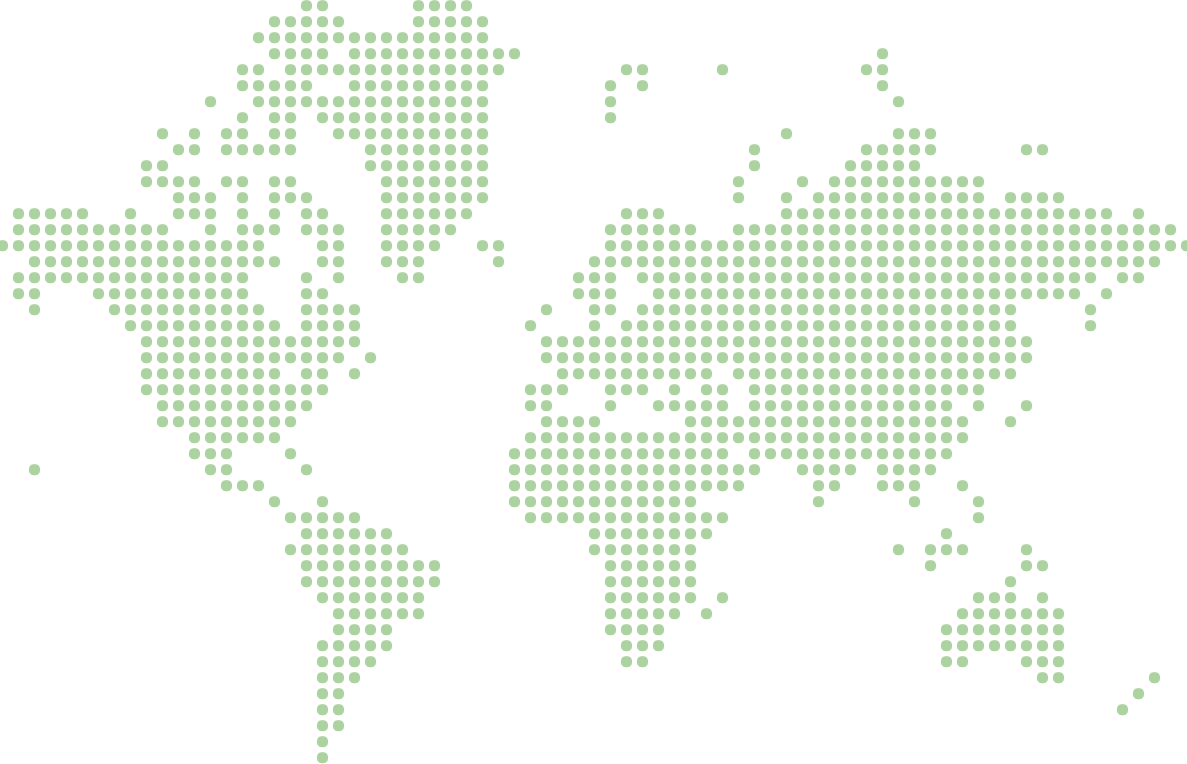
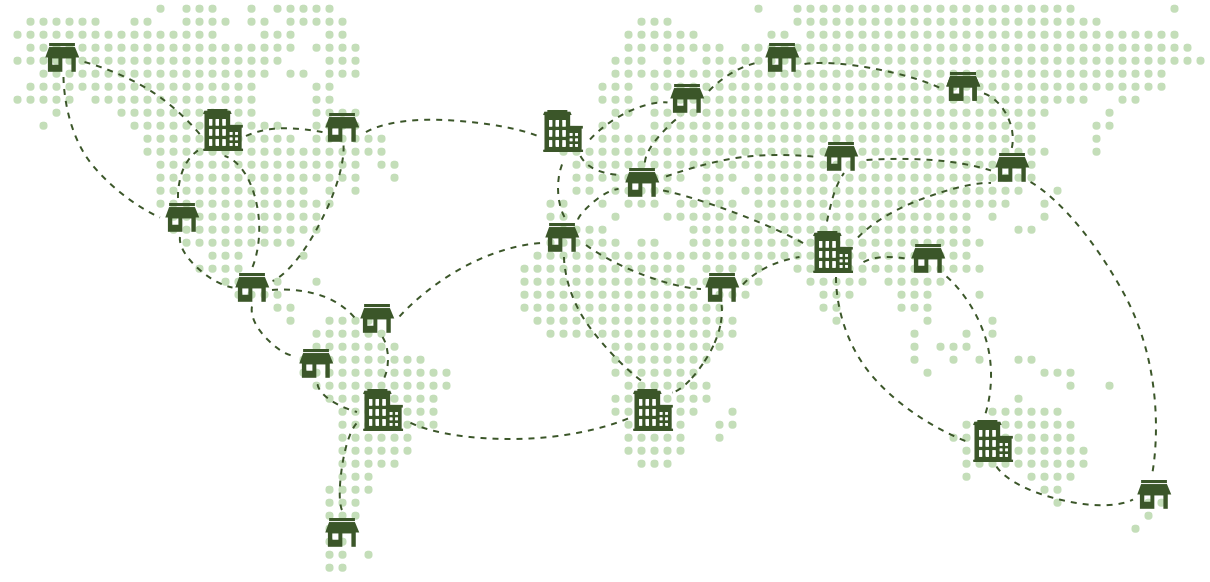
Changes in data

Changed region(s): [[0.0, 0.0, 1.0, 1.0], [0.9351, 0.8041, 0.9975, 0.9278], [0.4052, 0.3093, 0.4364, 0.3402]]

diff --git a/v2/index.html b/v2/index.html
@@ -48,7 +48,7 @@
           </div>
         </div>
         <div class="hc-branding">
-          <span class="hc-number-dist">10,000,000 <a href="#">StoreCoins Issued<span class="away"></span></a></span>
+          <span class="hc-number-dist">10,000,000 <a href="#">issued and authorized<span class="away"></span></a></span>
         </div>
         <nav class="hc-navigation">
           <div class="hc-menu-container">
@@ -82,47 +82,60 @@
   <div id="hc-content">
     <div class="hc-feature over-rel padding" id="hc-intro">
       <div class="hc-chunk hc-intro-text-wrapper">
-        <h2 class="hc-intro-large-lead">StoreCoin is a platform that connects banks, payments systems, and people.</h2>
-        <p class="hc-intro-small-lead">Integrate to move money quickly, reliably, and at almost no cost.</p>
-        <p><a href="#" class="button button-primary large-button">See who uses StoreCoin</a></p>
+        <h2 class="hc-intro-large-lead">StoreCoin is a blockchain platform that <b>will</b> connect chain stores, franchises, customers, and more</h2>
+        <p class="hc-intro-small-lead">OUR MISSION: On top of the StoreCoin blockchain, there could be a StarbucksCoin, a SafewayCoin, a WalmartCoin -- and their cash registers will be powered by StoreCoins</p>
+        <p class="hc-intro-small-lead">StoreCoin will power e-commerce, Point of Sales systems, staff rewards, supply chains, and even payroll for the world’s largest franchises and chains</p>
+        <img src="images/map.png" style="width:90%;" />
       </div>
     </div>
 
     <div class="hc-feature over-rel padding" id="hc-future">
       <div class="hc-chunk hc-future-text-wrapper">
-        <h3 class="hc-feature-title" style="margin-bottom:2em;">The future of banking is here</h3>
+        <h3 class="hc-feature-title" style="margin-bottom:2em;">THE BLOCKCHAIN WILL POWER TECHNOLOGY IN CHAIN STORES AND FRANCHISES</h3>
         <div class="hc-future-tabs container">
           <div class="tab-content-group row">
 
             <div class="tab-content is-active three columns">
               <span class="graphic graphic-into-cash"></span>
-              <p class="content-title">Remittances</p>
+              <p class="content-title">Store Coins</p>
+              <!--
               <p class="content-body">Send money across borders quickly, for a fraction of a cent. Facilitate low-cost payments between different currencies.</p>
-            </div>
-
-            <div class="tab-content three columns">
-              <span class="graphic graphic-hand-catching-orbs"></span>
-              <p class="content-title">Micropayments</p>
-              <p class="content-body">Increase efficiency and decrease the cost of smaller transfers. Offer incremental payment options to your customers.</p>
-            </div>
-
-            <div class="tab-content three columns">
-              <span class="graphic graphic-truck"></span>
-              <p class="content-title">Mobile Branches</p>
-              <p class="content-body">Get an agency banking advantage with mobile branches. Expand your retail operation, without the overhead costs.</p>
+            -->
             </div>
 
             <div class="tab-content three columns">
               <span class="graphic graphic-credit-card-with-phone"></span>
-              <p class="content-title">Mobile Money</p>
+              <p class="content-title">sApps</p>
+              <!--
               <p class="content-body">Make mobile money platforms interoperable. Let your customers send MM to recipients with different providers.</p>
+            -->
             </div>
+
+            <div class="tab-content three columns">
+              <span class="graphic graphic-hand-catching-orbs"></span>
+              <p class="content-title">Store Tokens</p>
+              <!--
+              <p class="content-body">Increase efficiency and decrease the cost of smaller transfers. Offer incremental payment options to your customers.</p>
+            -->
+            </div>
+
+
+            <div class="tab-content three columns">
+              <span class="graphic graphic-truck"></span>
+              <p class="content-title">Supply Chain</p>
+              <!--
+              <p class="content-body">Get an agency banking advantage with mobile branches. Expand your retail operation, without the overhead costs.</p>
+            -->
+            </div>
+
 
           </div>
         </div>
+        <!--
         <p class="hc-button-container">
           <a href="#" class="button button-primary large-button">Find your use case</a>
         </p>
+      -->
       </div>
     </div>
 
@@ -139,12 +152,15 @@
             <p>Get started on the network quickly with <br> developer-friendly software and tools.</p>
           </div>
         </div>
+        <!--
         <p class="hc-button-container">
           <a href="#" class="button button-primary large-button">Build with StoreCoin</a>
         </p>
+      -->
       </div>
     </div>
 
+    <!--
     <div class="hc-feature over-rel padding" id="hc-mission">
       <div class="hc-chunk hc-mission-tex-wrapper">
           <h3 class="hc-feature-title" style="margin-bottom:1.5em;">Finance with a mission</h3>
@@ -186,52 +202,50 @@
       </div>
     </div>
   </div>
+  -->
+
   <footer id="hc-footer">
     <div class="hc-footer-chunk" style="padding-bottom: 1em; border-top: 1px dashed #96ad8a;">
         <section class="footer-light row">
           <div class="three columns">
             <h3>Software</h3>
             <ul>
-              <li><a href="#">StoreCoin Core</a></li>
+              <li><a href="#">StoreCoin Blockchain</a></li>
               <li><a href="#">StoreCoin API</a></li>
-              <li><a href="#">Documentation</a></li>
               <li><a href="#">Our White Paper</a></li>
             </ul>
           </div>
           <div class="three columns">
             <h3>News</h3>
             <ul>
-              <li><a href="#">Latest Updates</a></li>
               <li><a href="#">Subscribe to Updates</a></li>
               <li><a href="#">FAQ</a></li>
               <li><a href="#">Bug Bounty Program</a></li>
-              <li><a href="#">Help articles</a></li>
               <li><a href="#">Twitter</a></li>
             </ul>
           </div>
           <div class="three columns">
             <h3>About StoreCoin</h3>
             <ul>
-              <li><a href="#">Mandate</a></li>
-              <li><a href="#">Team</a></li>
+              <li><a href="#">Why StoreCoin?</a></li>
+              <li><a href="#">How It Works</a></li>
+              <li><a href="#">Our Team</a></li>
               <li><a href="#">Jobs</a></li>
               <li><a href="#">Press</a></li>
-              <li><a href="#">Contact <img src="images/logo-text.png" style="width: 34px; vertical-align: sub;"></a></li>
+              <li><a href="#">Contact Us</li>
             </ul>
           </div>
           <div class="three columns">
             <img src="images/logo.png" style="width:100px; height: auto;" />
             <div></div>
-            <a href="" class="">StoreCoin</a> is a nonprofit organization.</p>
-            <p style="color:#666;">© 2014-2017 StoreCoin Foundation</p>
+            <a href="" class="">StoreCoin</a> is a for-profit organization where 10% of the network is invested back into the StoreCoin protocol</p>
+            <p style="color:#666; margin-top:0.5em;">© 2017 StoreCoin, Inc</p>
             <section class="footer-bridge">
               <div class="footer-bridge-contentStart">
                 <a href="#" class="footer-social-icon"><span class="graphic-socialHover-facebook"></span></a>
                 <a href="#" class="footer-social-icon"><span class="graphic-socialHover-twitter"></span></a>
                 <a href="#" class="footer-social-icon"><span class="graphic-socialHover-linkedin"></span></a>
                 <a href="#" class="footer-social-icon"><span class="graphic-socialHover-github"></span></a>
-                <a href="#" class="footer-social-icon"><span class="graphic-socialHover-reddit"></span></a>
-                <a href="#" class="footer-social-icon"><span class="graphic-socialHover-slack"></span></a>
               </div>
               <div class="footer-bridge-contentEnd">
               </div>

diff --git a/v2/css/styles.css b/v2/css/styles.css
@@ -183,31 +183,30 @@ h1, h2, h2, h3, h4, h5, h6 {
 /* #hc-intro  */
 #hc-intro {
   background: linear-gradient(0deg, rgb(197, 224, 181), rgba(197, 224, 181, 0.68) 75%);
-  height: 612px;
 }
 
 #hc-intro .hc-intro-text-wrapper {
   position: relative;
   z-index: 2;
   overflow: hidden;
-  max-width: 62em;
   padding-top: 10em;
-  padding-bottom: 10em;
+  padding-bottom: 1em;
   text-align: center;
   color: #08b5e5;
 }
 
 #hc-intro .hc-intro-text-wrapper .hc-intro-large-lead {
-  margin-bottom: 0em;
-  font-size: 28px;
+  margin-bottom: 1em;
+  font-size: 1.8em;
   color: inherit;
   font-weight: 300;
   color: #4c842b;
 }
 
 #hc-intro .hc-intro-text-wrapper .hc-intro-small-lead {
-  margin-bottom: 2em;
+  margin-bottom: 1em;
   color: #4c842b;
+  font-size: 0.9em;
 }
 
 /* #hc-intro  */
